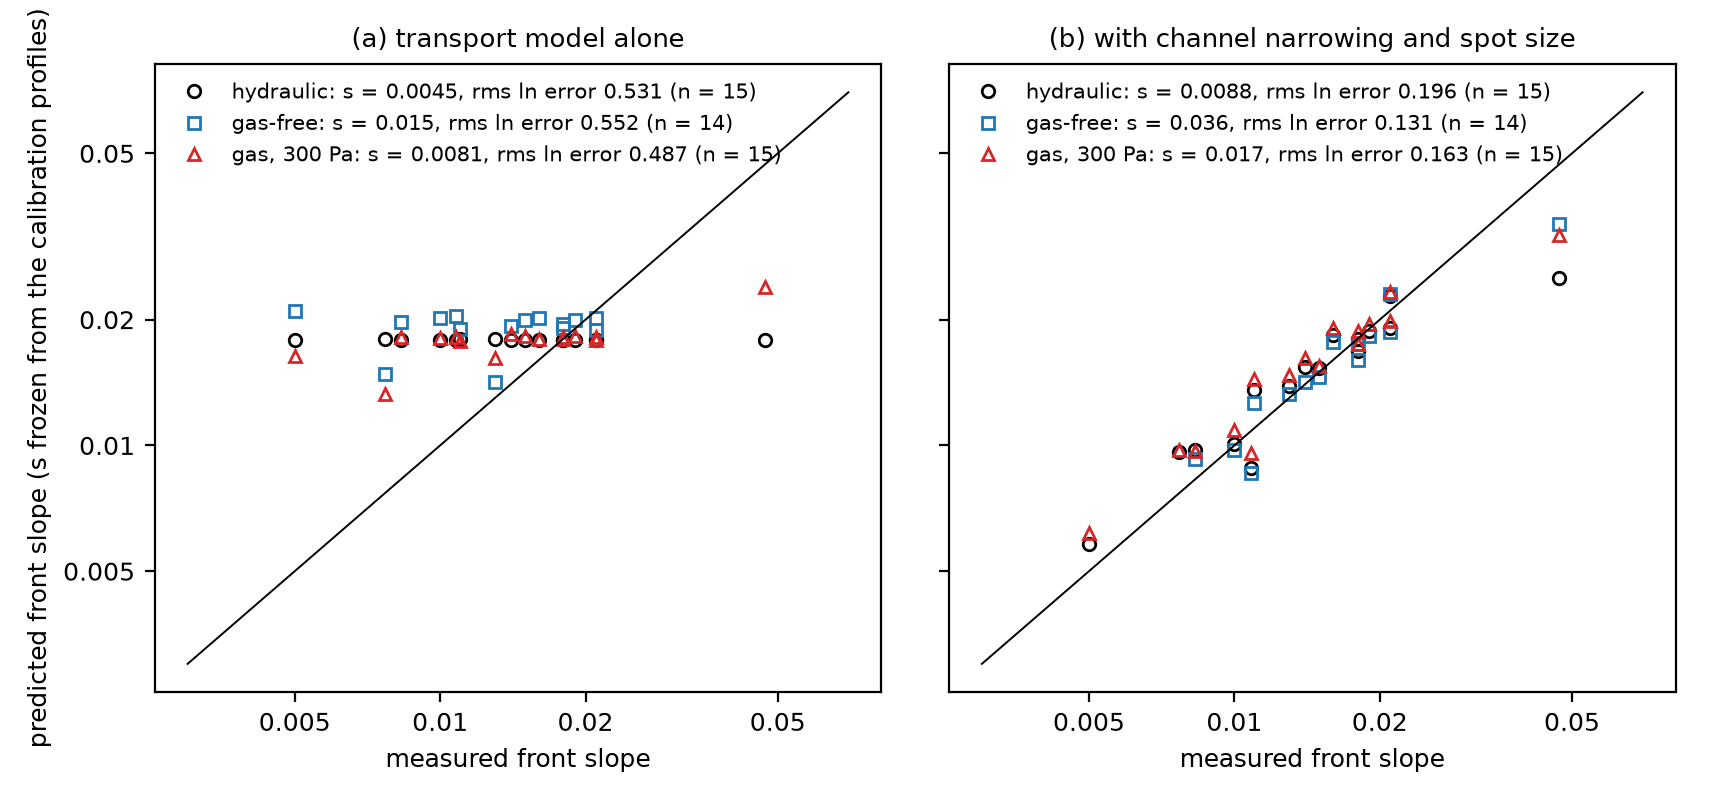
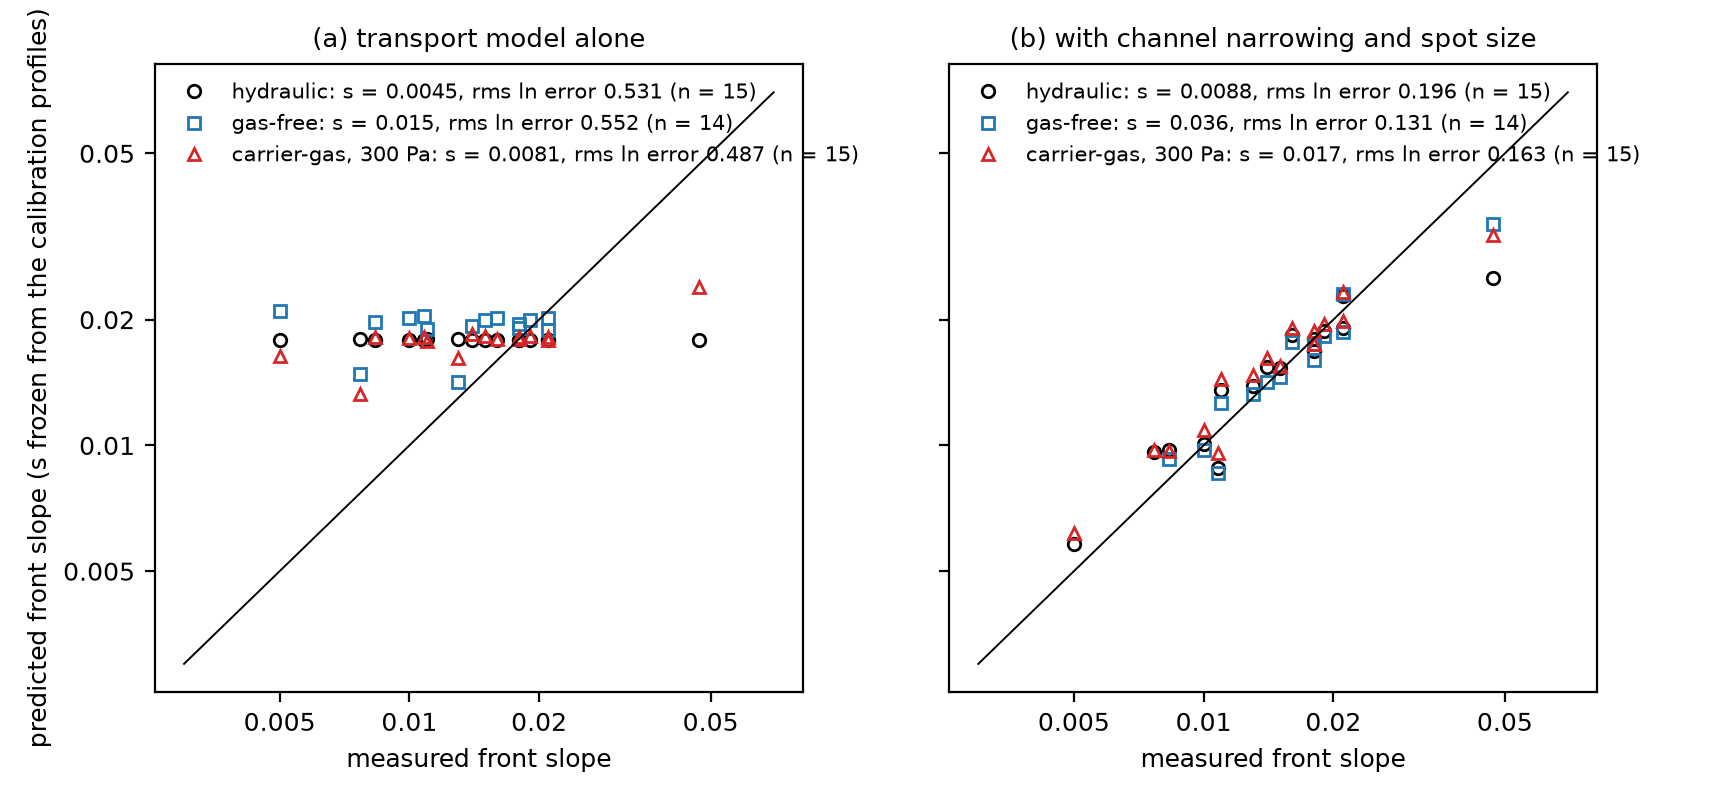
Figures: line-scan fronts added to the narrowing panel, shape-coded markers in the profile-fit figure, one name per transport model

diff --git a/docs/paper/mechanism_figures.py b/docs/paper/mechanism_figures.py
@@ -17,7 +17,7 @@ S0, Z0 = 0.0158, 215.0
 # ---- 1. transport candidates at one sticking value and one front depth ----
 VARIANTS = [("walls90_pillars49", "real cavity, cosine walls, no gas", "C0", "-"), ("spec20", "20 % specular", "C1", ":"), ("spec50", "50 % specular", "C1", "--"),
             ("retro20", "20 % back-scattered", "C2", ":"), ("retro50", "50 % back-scattered", "C2", "--"), ("cos2", "cos$^2$ lobe", "C4", ":"), ("cos4", "cos$^4$ lobe", "C4", "--"),
-            ("cos8", "cos$^8$ lobe", "C4", "-."), ("gas100", "N$_2$ 100 Pa", "C3", ":"), ("gas300", "N$_2$ 300 Pa", "C3", "-"), ("gas1000", "N$_2$ 1000 Pa", "C3", "--"), ("hyd", "hydraulic diffusion model", "k", "-")]
+            ("cos8", "cos$^8$ lobe", "C4", "-."), ("gas100", "N$_2$ 100 Pa", "C3", ":"), ("gas300", "N$_2$ 300 Pa", "C3", "-"), ("gas1000", "N$_2$ 1000 Pa", "C3", "--"), ("hyd", "hydraulic model", "k", "-")]
 diag = {}; curves = {}
 for name, label, c, ls in VARIANTS:
     K = mt.kernel(name)
@@ -58,16 +58,17 @@ for (H, cyc), c in zip(((500e-9, 250), (500e-9, 500), (500e-9, 1000), (100e-9, 5
         a, b = fs(yN), fs(ys); rows.append(dict(H_nm=H * 1e9, cycles=cyc, s=s, fill=fill, z50_full=a[0], slope_full=a[1], z50_law=b[0], slope_law=b[1], max_abs_diff=float(np.abs(yN - ys).max())))
         if s == 0.03: ax[0].plot(z, yN, color=c, lw=1.2, label=f"{H*1e9:.0f} nm, {cyc} cycles"); ax[0].plot(z, ys, color=c, lw=1.2, ls=":")
 pd.DataFrame(rows).to_csv(FIG / "mechanism_narrowing_check.csv", index=False)
-ax[0].set_xlim(0, 220); ax[0].set_xlabel("distance / initial gap"); ax[0].set_ylabel("normalised thickness"); ax[0].set_title("(a) full multi-cycle model (lines) and the law (dotted)"); ax[0].legend(frameon=False)
+ax[0].set_xlim(0, 220); ax[0].set_xlabel("distance / initial gap"); ax[0].set_ylabel("normalised thickness"); ax[0].set_title("(a) multi-cycle model (lines) and closed form (dotted)"); ax[0].legend(frameon=False)
 H = mt.heldout(); H["fill"] = np.minimum(2 * H.film_nm / H.H_nm, 1.0); H["z1"] = H.z50 / (1 - H.fill / 2); H["nn"] = H.measured_slope * H.fill * H.z1
-ff = np.linspace(0.03, 1, 100); ax[1].plot(ff, 1 / (ff * (1 - 0)) * (1 - ff / 2), "k-", lw=1, label="step-front value: slope x depth = (1 - f/2)/f")
-for mag, mk, lab in ((50, "o", "reflectometry, 5-6 um spot"), (10, "s", "25 um spot"), (5, "D", "50 um spot"), (0, "^", "EDS (Haimi 2021)"), (100, "v", "Arts 2019")):
+ff = np.linspace(0.03, 1, 100); ax[1].plot(ff, 1 / (ff * (1 - 0)) * (1 - ff / 2), "k-", lw=1, label="steepest front, Eq. (3), n = 1")
+for mag, mk, lab in ((50, "o", "reflectometry, 5–6 µm spot"), (10, "s", "25 µm spot"), (5, "D", "50 µm spot"), (0, "^", "EDS (Haimi 2021)"), (100, "v", "Arts 2019")):
     g = H[H.magnification == mag]; ax[1].plot(g.fill, g.measured_slope * g.z50, mk, ms=5, label=lab)
-ax[1].set_xscale("log"); ax[1].set_yscale("log"); ax[1].set_xlabel("fraction of the gap filled, f = 2 t / H"); ax[1].set_ylabel("measured slope x half-thickness depth"); ax[1].set_title("(b) measured fronts against the step-front value"); ax[1].legend(frameon=False, loc="upper right", fontsize=6.5)
+E = pd.read_csv(ROOT / "docs/blindtest/v2/posthoc/eds_slopes.csv"); ax[1].plot(E.fill, E.slope_eds * E.z50_gaps, "*", color="k", ms=7, mfc="none", label="EDS line scans (Yim 2020, Fig. S8)")
+ax[1].set_xscale("log"); ax[1].set_yscale("log"); ax[1].set_xlabel("fraction of the gap filled, f = 2 t / H"); ax[1].set_ylabel("measured slope x half-thickness depth"); ax[1].set_title("(b) measured fronts against the steepest front"); ax[1].legend(frameon=False, loc="upper right", fontsize=6.5)
 d = H[(H.H_nm == 500) & (H.magnification.isin([50, 0]))].sort_values("cycles"); cur = json.loads((FIG / "mechanism_slope_curves.json").read_text()); cmp_ = pd.read_csv(FIG / "mechanism_comparison.csv")
 for model, c in (("gas", "C3"), ("gas+narrowing+spot", "C0")):
     g = cmp_[(cmp_.model == model) & cmp_["sample"].isin(d["sample"])].sort_values("cycles"); ax[2].plot(g.cycles, g.predicted_slope, "x" if "narrowing" in model else "+", color=c, ms=7, label=("with" if "narrowing" in model else "without") + " narrowing (predicted)")
-ax[2].plot(d.cycles, d.measured_slope, "ko", ms=4, label="measured"); ax[2].set_xlabel("ALD cycles (gap 500 nm)"); ax[2].set_ylabel("front slope at half thickness"); ax[2].set_title("(c) cycle series, gas model at 300 Pa"); ax[2].legend(frameon=False); ax[2].set_ylim(0, 0.03)
+ax[2].plot(d.cycles, d.measured_slope, "ko", ms=4, label="measured"); ax[2].set_xlabel("ALD cycles (gap 500 nm)"); ax[2].set_ylabel("front slope at half thickness"); ax[2].set_title("(c) cycle series, carrier-gas model at 300 Pa"); ax[2].legend(frameon=False); ax[2].set_ylim(0, 0.03)
 fig.tight_layout(); fig.savefig(OUT / "fig10_narrowing_law.png"); plt.close(fig)
 
 # ---- 3. held-out slopes ----
@@ -75,7 +76,7 @@ summ = json.loads((FIG / "mechanism_summary.json").read_text()); fig, ax = plt.s
 for a, models, t in ((ax[0], ("hydraulic", "ballistic", "gas"), "(a) transport model alone"), (ax[1], ("hydraulic+narrowing+spot", "ballistic+narrowing+spot", "gas+narrowing+spot"), "(b) with channel narrowing and spot size")):
     for m, c, mk in zip(models, ("k", "C0", "C3"), ("o", "s", "^")):
         g = cmp_[(cmp_.model == m) & cmp_.predicted_slope.notna()]; q = summ["models"][m]
-        a.plot(g.measured_slope, g.predicted_slope, mk, color=c, ms=4.5, mfc="none", label=f"{ {'ballistic': 'gas-free', 'gas': 'gas, 300 Pa'}.get(m.split('+')[0], m.split('+')[0]) }: s = {q['s']:.2g}, rms ln error {q['rms_ln']} (n = {q['n']})")
+        a.plot(g.measured_slope, g.predicted_slope, mk, color=c, ms=4.5, mfc="none", label=f"{ {'ballistic': 'gas-free', 'gas': 'carrier-gas, 300 Pa'}.get(m.split('+')[0], m.split('+')[0]) }: s = {q['s']:.2g}, rms ln error {q['rms_ln']} (n = {q['n']})")
     a.plot([0.003, 0.07], [0.003, 0.07], "k-", lw=0.7); a.set_xscale("log"); a.set_yscale("log"); a.set_xlabel("measured front slope"); a.set_title(t); a.legend(frameon=False, loc="upper left")
     a.set_xticks([0.005, 0.01, 0.02, 0.05]); a.set_xticklabels(["0.005", "0.01", "0.02", "0.05"]); a.set_yticks([0.005, 0.01, 0.02, 0.05]); a.set_yticklabels(["0.005", "0.01", "0.02", "0.05"]); a.minorticks_off()
 ax[0].set_ylabel("predicted front slope (s frozen from the calibration profiles)"); fig.tight_layout(); fig.savefig(OUT / "fig11_heldout.png"); plt.close(fig)
@@ -89,7 +90,7 @@ ss = np.geomspace(0.003, 0.06, 50); ax[0].plot(ss, np.sqrt(ss / 13.9), "k:", lw=
 ax[0].set_xscale("log"); ax[0].set_yscale("log"); ax[0].set_xlabel("sticking coefficient s"); ax[0].set_ylabel("front slope (complete gas model, 300 Pa)"); ax[0].set_title("(a) what the slope still says about s"); ax[0].legend(frameon=False, fontsize=6.5)
 ax[0].set_xticks([0.003, 0.01, 0.03, 0.06]); ax[0].set_xticklabels(["0.003", "0.01", "0.03", "0.06"]); ax[0].set_yticks([0.005, 0.01, 0.02, 0.05]); ax[0].set_yticklabels(["0.005", "0.01", "0.02", "0.05"]); ax[0].minorticks_off()
 for m, c, mk in zip(mt.COMPLETE, ("k", "C0", "C3"), ("o", "s", "^")):
-    idf = pd.DataFrame(summ["ceiling"][m]).T; ax[1].plot(idf.fill.astype(float), idf.measured_over_ceiling.astype(float), mk, ms=5, color=c, mfc="none", label={"ballistic": "gas-free", "gas": "gas, 300 Pa"}.get(m.split("+")[0], m.split("+")[0]))
+    idf = pd.DataFrame(summ["ceiling"][m]).T; ax[1].plot(idf.fill.astype(float), idf.measured_over_ceiling.astype(float), mk, ms=5, color=c, mfc="none", label={"ballistic": "gas-free", "gas": "carrier-gas, 300 Pa"}.get(m.split("+")[0], m.split("+")[0]))
 idf = pd.DataFrame(summ["ceiling"]["gas+narrowing+spot"]).T
 for smp, r in idf.iterrows():
     if smp in ("Yim9", "Yim10", "Yim11", "Yim7", "Arts", "HaimiA", "Yim6"): ax[1].annotate(smp.replace("Yim", "#"), (float(r.fill), float(r.measured_over_ceiling)), textcoords="offset points", xytext=(4, 3), fontsize=7)

diff --git a/docs/paper/final_figures.py b/docs/paper/final_figures.py
@@ -54,10 +54,11 @@ print("wrote fig13_eds_cycle_series.png, fig14_slit_benchmark.png")
 
 # ---- Figure: sticking coefficient fitted profile by profile, without and with channel narrowing ----
 P = pd.read_csv(FIG / "profile_fits_cut0.3.csv"); fig, ax = plt.subplots(1, 3, figsize=(11.5, 3.7), sharey=True)
-for a, fam, title in zip(ax, ("hydraulic", "gas", "ballistic"), ("(a) hydraulic diffusion", "(b) cavity Monte Carlo, N$_2$ at 300 Pa", "(c) cavity Monte Carlo, no gas")):
+for a, fam, title in zip(ax, ("hydraulic", "gas", "ballistic"), ("(a) hydraulic model", "(b) carrier-gas model, N$_2$ at 300 Pa", "(c) gas-free model")):
     g = P[P.transport == fam]; top = g.s_grid_max.max()
     for nar, col, lab in ((False, "C0", "without narrowing"), (True, "C3", "with narrowing")):
-        for meth, mk in (("EDS", "o"), ("reflectometry", "s")):
+        mk = "s" if nar else "o"
+        for meth in ("EDS", "reflectometry"):
             q = g[(g.narrowing == nar) & (g.method == meth)]; x = q.fill + (0.006 if nar else -0.006)
             lo = np.clip(q.s_fit - q.s_p16, 0, None); hi = np.clip(q.s_p84 - q.s_fit, 0, None); open_top = q.s_p84 >= 0.99 * q.s_grid_max
             a.errorbar(x, q.s_fit, yerr=[lo, hi], fmt=mk, color=col, ms=4.5, mfc=col if meth == "EDS" else "none", lw=0.8, capsize=2, label=f"{meth}, {lab}")
